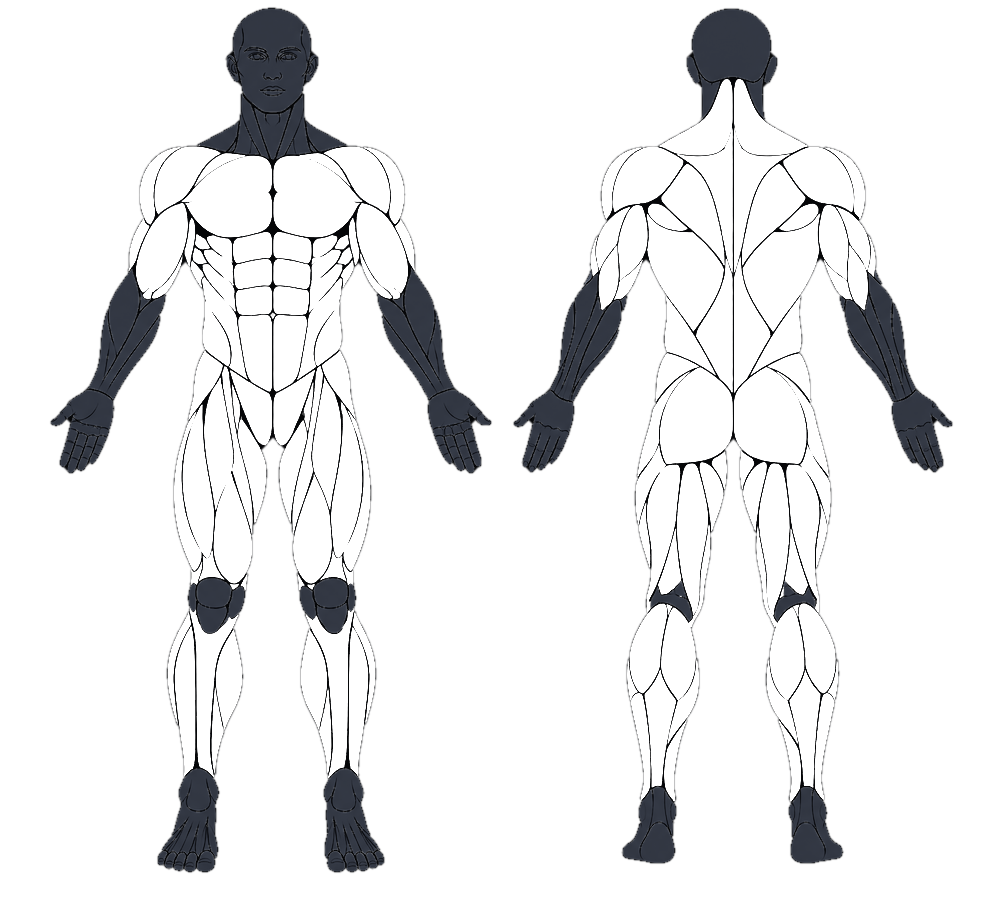
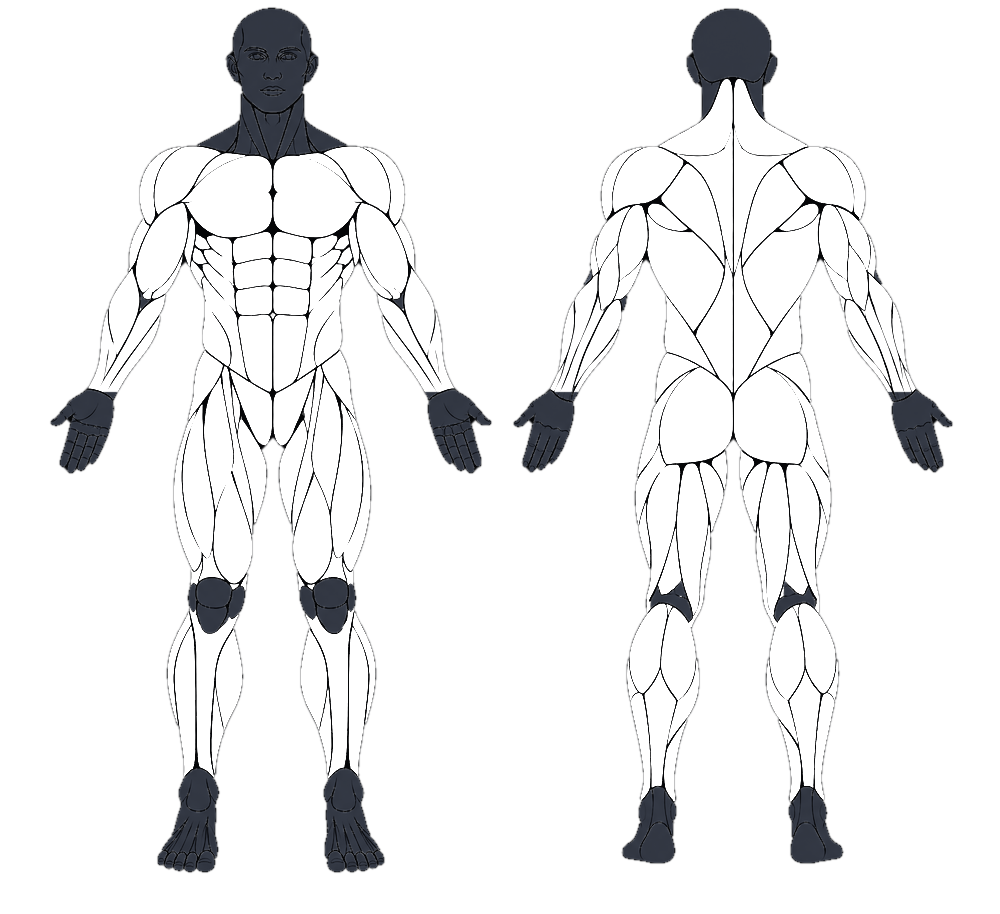
Antebrazo en el maniquí y músculos secundarios en rangos y series por músculo
Claude-Session: https://claude.ai/code/session_01PDNku5727WN7kMr6Wj6bAQ

diff --git a/src/ranks.js b/src/ranks.js
@@ -2,6 +2,29 @@
 // Para cada ejercicio hay una referencia de nivel "Oro" (intermedio sólido) (1RM estimado / peso corporal; en mancuernas, por mancuerna).
 // En los de peso corporal se usan repeticiones máximas en una serie.
 import { EX_BY_ID, GROUPS } from './data/exercises'
+
+// Grupos del maniquí (los de la biblioteca + antebrazo, que solo se trabaja como secundario)
+export const RANK_GROUPS = [...GROUPS, 'Antebrazo']
+// Nombre del músculo en los datos del ejercicio → grupo
+const TO_GROUP = {
+  Pecho: 'Pecho', Dorsales: 'Espalda', 'Espalda media': 'Espalda', Lumbar: 'Espalda', Trapecio: 'Espalda', Hombros: 'Hombro',
+  'Bíceps': 'Bíceps', 'Tríceps': 'Tríceps', 'Cuádriceps': 'Pierna', Femorales: 'Pierna', 'Glúteos': 'Pierna', Gemelos: 'Pierna',
+  Abdominales: 'Core', Antebrazo: 'Antebrazo',
+}
+// Secundarios que faltan en los datos (agarre = antebrazo)
+const EXTRA_SEC = {
+  Hammer_Curls: ['Antebrazo'], Bent_Over_Barbell_Row: ['Antebrazo'], 'One-Arm_Dumbbell_Row': ['Antebrazo'], Seated_Cable_Rows: ['Antebrazo'],
+  Pullups: ['Antebrazo'], Barbell_Shrug: ['Antebrazo'], Dumbbell_Shrug: ['Antebrazo'], Romanian_Deadlift: ['Antebrazo', 'Espalda'], Barbell_Squat: ['Core'],
+}
+export const SEC_FACTOR = 0.7
+// Grupos que trabaja un ejercicio: principal (1) y secundarios (SEC_FACTOR para rangos, 0,5 para contar series)
+export function groupsOf(id) {
+  const ex = EX_BY_ID[id]
+  if (!ex) return []
+  const main = ex.group
+  const sec = new Set([...(ex.sec || []).map((m) => TO_GROUP[m]), ...(EXTRA_SEC[id] || [])].filter((g) => g && g !== main))
+  return [{ g: main, main: true }, ...[...sec].map((g) => ({ g, main: false }))]
+}
 import { e1rm, num, todayStr, addDays } from './store'
 
 export const RANKS = [
@@ -68,14 +91,18 @@ export function muscleRanks(data) {
           f = e / bw / ref
           val = { e, ref }
         }
-        if (!best[id] || f > best[id].f) best[id] = { id, f, ...val, date: s.date }
+        for (const { g, main } of groupsOf(id)) {
+          const k = g + '|' + id
+          const fg = main ? f : f * SEC_FACTOR
+          if (!best[k] || fg > best[k].f) best[k] = { id, g, f: fg, main, factor: main ? 1 : SEC_FACTOR, ...val, date: s.date }
+        }
       }
     }
   }
   const out = {}
-  for (const g of GROUPS) {
+  for (const g of RANK_GROUPS) {
     const list = Object.values(best)
-      .filter((b) => EX_BY_ID[b.id].group === g)
+      .filter((b) => b.g === g)
       .sort((a, b) => b.f - a.f)
     if (!list.length) {
       out[g] = { group: g, f: null, rank: null, top: null }
@@ -86,8 +113,8 @@ export function muscleRanks(data) {
     const nr = nextRank(f)
     // cuánto te falta para el siguiente rango en tu mejor ejercicio de ese músculo
     let need = null
-    if (nr && top.ref) need = { rank: nr, e1rm: Math.ceil(nr.min * top.ref * bw * 2) / 2 }
-    else if (nr && REPS[top.id]) need = { rank: nr, reps: Math.ceil((nr.min * REPS[top.id]) / (1 + (top.w || 0) / bw)) }
+    if (nr && top.ref) need = { rank: nr, e1rm: Math.ceil(((nr.min / top.factor) * top.ref * bw) * 2) / 2 }
+    else if (nr && REPS[top.id]) need = { rank: nr, reps: Math.ceil(((nr.min / top.factor) * REPS[top.id]) / (1 + (top.w || 0) / bw)) }
     out[g] = { group: g, f, rank: rankOf(f), top, need, progress: nr ? Math.max(0, Math.min(1, (f - rankOf(f).min) / (nr.min - rankOf(f).min))) : 1 }
   }
   const have = Object.values(out).filter((x) => x.f != null)

diff --git a/src/Extras.jsx b/src/Extras.jsx
@@ -1,5 +1,5 @@
 import { FOODS } from './data/foods'
-import { EX_BY_ID, GROUPS } from './data/exercises'
+import { RANK_GROUPS, groupsOf } from './ranks'
 import { dayTotals, todayStr, uid, fmtDate } from './store'
 
 const FOOD = Object.fromEntries(FOODS.map((f) => [f.id, f]))
@@ -104,13 +104,14 @@ export function MuscleSets({ data }) {
   const d = new Date()
   d.setDate(d.getDate() - ((d.getDay() + 6) % 7))
   const monday = fmtDate(d)
-  const count = Object.fromEntries(GROUPS.map((g) => [g, 0]))
+  const direct = Object.fromEntries(RANK_GROUPS.map((g) => [g, 0]))
+  const indirect = Object.fromEntries(RANK_GROUPS.map((g) => [g, 0]))
   for (const s of data.sessions.filter((x) => x.date >= monday))
-    for (const [exId, sets] of Object.entries(s.entries || {})) {
-      const g = EX_BY_ID[exId]?.group
-      if (g && count[g] != null) count[g] += sets.length
-    }
-  const total = Object.values(count).reduce((a, b) => a + b, 0)
+    for (const [exId, sets] of Object.entries(s.entries || {}))
+      for (const { g, main } of groupsOf(exId)) (main ? direct : indirect)[g] += sets.length
+  // las series indirectas (músculo secundario) cuentan la mitad
+  const count = Object.fromEntries(RANK_GROUPS.map((g) => [g, Math.round(direct[g] + indirect[g] / 2)]))
+  const total = Object.values(direct).reduce((a, b) => a + b, 0)
   if (!total) return null
   const MAX = 24
   return (
@@ -119,8 +120,11 @@ export function MuscleSets({ data }) {
         <b>Series por músculo</b>
         <span className="muted small">esta semana · ideal 10–20</span>
       </div>
+      <div className="muted small" style={{ marginTop: 2 }}>
+        Las de músculos secundarios cuentan la mitad (el press banca suma a tríceps y hombro).
+      </div>
       <div className="msets">
-        {GROUPS.map((g) => {
+        {RANK_GROUPS.map((g) => {
           const n = count[g]
           const tone = n === 0 ? 'none' : n < 10 ? 'low' : n > 20 ? 'high' : 'ok'
           return (
@@ -130,7 +134,7 @@ export function MuscleSets({ data }) {
                 <span className="mset-band" style={{ left: `${(10 / MAX) * 100}%`, width: `${(10 / MAX) * 100}%` }} />
                 <span className={'mset-fill ' + tone} style={{ width: `${Math.min(100, (n / MAX) * 100)}%` }} />
               </span>
-              <span className="mset-v">{n}</span>
+              <span className="mset-v" title={indirect[g] ? `${direct[g]} directas + ${indirect[g]} indirectas` : undefined}>{n}</span>
             </div>
           )
         })}

diff --git a/src/Rank.jsx b/src/Rank.jsx
@@ -40,6 +40,7 @@ function Detail({ data, onClose }) {
               </div>
               <div className="muted small">
                 {EX_BY_ID[g.top.id]?.name}
+                {g.top.main ? '' : ' (secundario)'}
                 {g.top.e ? ` · 1RM est. ${fmtKg(Math.round(g.top.e * 2) / 2)} kg` : ` · ${g.top.reps} reps`}
                 {g.need ? (g.need.e1rm ? ` · ${g.need.rank.name} con 1RM est. ${fmtKg(g.need.e1rm)} kg` : ` · ${g.need.rank.name} con ${g.need.reps} reps`) : ' · rango máximo'}
               </div>
@@ -60,7 +61,7 @@ function Detail({ data, onClose }) {
         <p className="muted small">Activa "Unilateral" en ejercicios de un brazo o una pierna y apunta las reps de cada lado para medir la simetría.</p>
       )}
       <p className="muted small">
-        Los rangos salen de tu fuerza real en los últimos 90 días comparada con tu peso corporal{bw.real ? '' : ' (aún sin pesajes: se calcula con 80 kg)'}, usando referencias de fuerza para hombres entrenados. Oro es un nivel intermedio sólido; Diamante, avanzado.
+        Los rangos salen de tu fuerza real en los últimos 90 días comparada con tu peso corporal{bw.real ? '' : ' (aún sin pesajes: se calcula con 80 kg)'}, usando referencias de fuerza para hombres entrenados. Oro es un nivel intermedio sólido; Diamante, avanzado. Los ejercicios también suman, con menos peso, a los músculos que trabajan como secundarios: el press banca al tríceps y al hombro, los remos al bíceps y al antebrazo…
       </p>
     </Modal>
   )
@@ -83,7 +84,7 @@ export default function RankCard({ data }) {
         <div className="rank-mini">
           {Object.values(groups)
             .filter((g) => g.rank)
-            .slice(0, 7)
+            .slice(0, 8)
             .map((g) => (
               <span key={g.group} className="small">
                 <i style={{ background: g.rank.color }} /> {g.group}
@@ -91,7 +92,7 @@ export default function RankCard({ data }) {
             ))}
         </div>
         <span className="muted small">
-          {n}/7 desbloqueados ›
+          {n}/{Object.keys(groups).length} desbloqueados ›
         </span>
       </div>
     </button>

diff --git a/src/styles.css b/src/styles.css
@@ -1647,7 +1647,7 @@ body.modal-open .savebar { display: none; }
 
 /* ---- Series por músculo ---- */
 .msets { display: grid; gap: 8px; margin-top: 8px; }
-.mset { display: grid; grid-template-columns: 64px 1fr 26px; align-items: center; gap: 10px; font-size: 13px; }
+.mset { display: grid; grid-template-columns: 78px 1fr 26px; align-items: center; gap: 10px; font-size: 13px; }
 .mset-bar { position: relative; height: 10px; border-radius: 99px; background: var(--card2); overflow: hidden; }
 .mset-band { position: absolute; top: 0; bottom: 0; background: rgba(62, 224, 143, 0.12); }
 .mset-fill { position: absolute; left: 0; top: 0; bottom: 0; border-radius: 99px; transition: width 0.6s ease; }

diff --git a/src/Mannequin.jsx b/src/Mannequin.jsx
@@ -1,7 +1,7 @@
 // Maniquí: imagen anatómica (frente y espalda) separada en capas por grupo muscular.
 // Cada máscara se pinta con el color del rango de ese músculo; encima van las líneas y las partes neutras.
 // Fuente y script de separación en assets-src/.
-const FILES = { Pecho: 'pecho', Espalda: 'espalda', Hombro: 'hombro', 'Bíceps': 'biceps', 'Tríceps': 'triceps', Pierna: 'pierna', Core: 'core' }
+const FILES = { Pecho: 'pecho', Espalda: 'espalda', Hombro: 'hombro', 'Bíceps': 'biceps', 'Tríceps': 'triceps', Pierna: 'pierna', Core: 'core', Antebrazo: 'antebrazo' }
 const url = (f) => `url(body/${f}.png)`
 
 const shade = (hex, k) => {

diff --git a/assets-src/body-base.py b/assets-src/body-base.py
@@ -21,7 +21,20 @@ line_a = dark * silf
 t = np.clip((lum - 0.25) / 0.55, 0, 1)
 lo = np.array([0.10, 0.11, 0.14]); hi = np.array([0.30, 0.33, 0.39])
 neutral = lo + (hi - lo) * t[..., None]
-grey_a = (greyish & sil).astype(np.float32)
+# antebrazos: zona gris entre codo y muñeca (pasa a ser músculo con su propia máscara)
+H = sil.shape[0]
+yy, xx = np.mgrid[0:H, 0:W]
+arms = ((xx < 175) | ((xx > 370) & (xx < 465)) | ((xx > 535) & (xx < 632)) | (xx > 830)) & (yy > 240) & (yy < 392)
+fore = greyish & sil & arms
+lab, n = ndi.label(fore)
+if n:
+    sz = ndi.sum(fore, lab, range(1, n + 1)); fore = np.isin(lab, [i + 1 for i, z in enumerate(sz) if z > 150])
+fore = ndi.binary_fill_holes(ndi.binary_closing(fore, iterations=3))
+fm = ndi.gaussian_filter((ndi.binary_dilation(fore, iterations=2) & sil).astype(np.float32), 0.6)
+mimg = np.zeros((*fore.shape, 4), np.uint8); mimg[..., :3] = 255; mimg[..., 3] = (np.clip(fm, 0, 1) * 255).astype(np.uint8)
+Image.fromarray(mimg, 'RGBA').save('mask_Antebrazo.png', optimize=True)
+print('antebrazo px', int(fore.sum()))
+grey_a = (greyish & sil & ~fore).astype(np.float32)
 grey_a = ndi.gaussian_filter(grey_a, 0.5)
 out = np.zeros((*sil.shape, 4), np.float32)
 # capa: primero gris neutro, luego líneas encima
@@ -37,7 +50,7 @@ e = np.zeros((*sil.shape, 4), np.uint8); e[..., :3] = [190, 205, 230]; e[..., 3]
 Image.fromarray(e, 'RGBA').save('edge.png', optimize=True)
 # máscaras a la misma resolución: reescalar las ya corregidas
 import glob
-for f in glob.glob('mask_*.png'):
+for f in [x for x in glob.glob('mask_*.png') if 'Antebrazo' not in x]:
     m = Image.open(f).resize((W, sil.shape[0]), Image.LANCZOS)
     m.save(f, optimize=True)
 print(src.size)

diff --git a/tests/test_sec.py b/tests/test_sec.py
@@ -1,0 +1,17 @@
+from playwright.sync_api import sync_playwright
+with sync_playwright() as p:
+    b=p.chromium.launch(executable_path='/usr/bin/google-chrome',args=['--no-sandbox'])
+    pg=b.new_context(viewport={'width':390,'height':844},device_scale_factor=2).new_page(); errs=[]; pg.on('pageerror',lambda e:errs.append(str(e)))
+    pg.clock.set_fixed_time('2026-11-08T12:00:00')
+    pg.goto('http://127.0.0.1:4173/'); pg.wait_for_selector('.tabbar')
+    pg.evaluate("""()=>{const d=JSON.parse(localStorage.getItem('migym.v1')); d.setupDone=true;
+      d.sessions=[{id:'a',date:'2026-11-06',dayId:'free',dayName:'Brazo',entries:{Preacher_Curl:[{w:'7',r:'10'},{w:'7',r:'10'}],Hammer_Curls:[{w:'8',r:'10'},{w:'8',r:'10'}],Triceps_Pushdown:[{w:'20',r:'10'}]}},
+                  {id:'b',date:'2026-11-07',dayId:'free',dayName:'Pecho',entries:{'Barbell_Bench_Press_-_Medium_Grip':[{w:'50',r:'8'},{w:'50',r:'8'},{w:'50',r:'7'}],Incline_Dumbbell_Press:[{w:'16',r:'10'},{w:'16',r:'9'}]}}];
+      localStorage.setItem('migym.v1',JSON.stringify(d))}""")
+    pg.reload(); pg.wait_for_timeout(1500)
+    ms=pg.locator('.card:has-text("Series por músculo")'); ms.scroll_into_view_if_needed(); print(ms.inner_text().replace('\n',' | '))
+    ms.screenshot(path='/home/claude/shots/msets2.png')
+    pg.click('.rank-card'); pg.wait_for_timeout(700)
+    print(pg.locator('.sheet').inner_text().replace('\n',' | ')[:1300])
+    pg.locator('.sheet .mq').screenshot(path='/home/claude/shots/mq_sec.png')
+    print('ERR',errs)

diff --git a/CLAUDE.md b/CLAUDE.md
@@ -18,7 +18,7 @@ Prefiere respuestas cortas, directas y sinceras. Las propuestas del coach nunca 
 - `src/coach.js` revisión semanal (propone, nunca aplica solo) + IA; usa datos del reloj (`polarWeek`).
 - `src/polar.js` + `src/PolarSession.jsx` Polar AccessLink vía el Worker. Polar devuelve campos en snake_case (`sample_type`, `heart_rate_zones` con `lower_limit`, índices de zona desde 0): el parser acepta ambos formatos.
 - `src/push.js` + `src/PushCard.jsx` + `public/push-sw.js` avisos Web Push.
-- `src/Rank.jsx` + `src/ranks.js` + `src/Mannequin.jsx` "Tu personaje": rangos Hierro→Diamante por músculo según fuerza real (1RM est./peso corporal), simetría izq/der. El maniquí es una imagen generada por IA separada en capas por grupo (`public/body/mask-*.png`, `base.png`, `edge.png`); fuente y script en `assets-src/`.
+- `src/Rank.jsx` + `src/ranks.js` + `src/Mannequin.jsx` "Tu personaje": rangos Hierro→Diamante por músculo (7 grupos + Antebrazo) según fuerza real (1RM est./peso corporal); los músculos secundarios de cada ejercicio cuentan (×0,7 en rangos, ½ en series por músculo; `groupsOf` en ranks.js); simetría izq/der. El maniquí es una imagen generada por IA separada en capas por grupo (`public/body/mask-*.png`, `base.png`, `edge.png`); fuente y script en `assets-src/`.
 - `src/store.js` `suggestion()` subida de peso (RIR + doble progresión; en pesos libres máx. ~12 %).
 
 ## Cloudflare Worker (`cloudflare/worker.js`)
